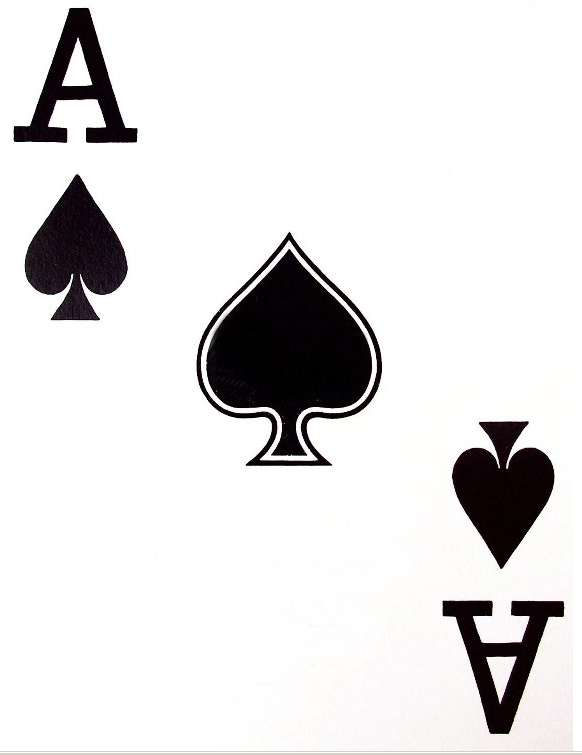
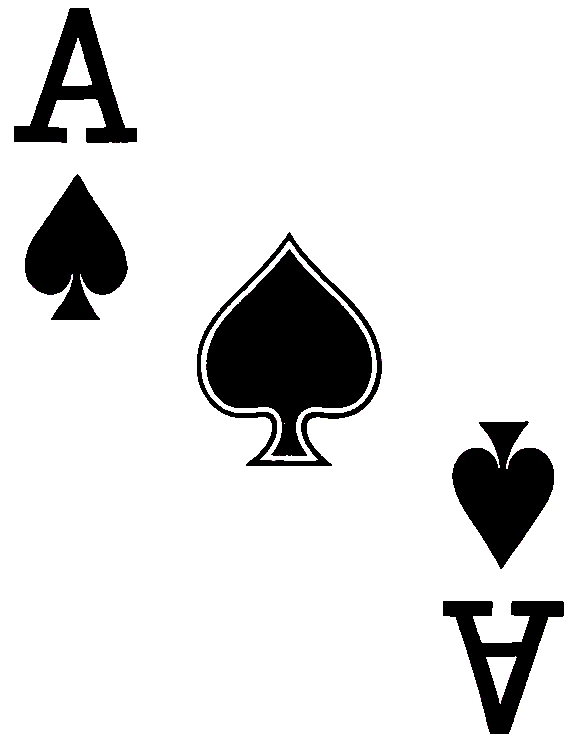
Second Pass added
has some bugs that need to be fixed

diff --git a/src/connected_components.py b/src/connected_components.py
@@ -1,65 +1,50 @@
 import random
 import Image
+from linked import Linked
 
 class ConnectedComponents:
 
-    linked = []
-    image = []
-
     
+
     def __init__(self, original_image_name):
 
-        print 'aqui'
         # parameters
-        self.original_image = Image.open(original_image_name)
-        filename, extension = original_image_name.split(".", 1)
-        self.saved_image_name = filename + '_altered.' + extension
+        self.original_image = Image.open(original_image_name)           # original image
+        filename, extension = original_image_name.split(".", 1)         # filename and extension
+        self.saved_image_name = filename + '_altered.' + extension      # saved filename
 
         # image measures
-        self.image_columns = self.original_image.size[0]
-        self.image_lines = self.original_image.size[1]
+        self.image_columns = self.original_image.size[0]                # columns
+        self.image_lines = self.original_image.size[1]                  # lines
 
         # initialize labels matrix
         self.labels = [[0 for col in range(self.image_columns)] for row in range(self.image_lines)]
 
+        # initialize label equivalences
+        self.equivalences = Linked()
     pass
 
     def identify_components(self):
         print 'identify_components'
+
         # first pass
         self.first_pass()
-        
+
+##        self.print_labels()
+
+        #print self.labels
+
         # second pass
         self.second_pass()
+
+##        self.print_labels()
+      
+        #print self.labels
 
         # save image
         self.save_image()
 
-    pass
-
-    #print 'Image_Columns: %d Image_Lines: %d' % (image_columns, image_lines)
-
-    #----------------------------------
-    # save image
-    #----------------------------------
-    def save_image(self):
-        print 'save_image'
-
-        rnd = random.randint
-        # generate label colors
-        labelColors = [(rnd(0, 255), rnd(0, 255), rnd(0, 255)) for l in range(0,  self.nextLabel)]
-        labelColors[0] = (0,0,0)
-
-        # put pixels in image
-        for line in range(self.image_lines):
-            for column in range(self.image_columns):
-                    
-                self.original_image.putpixel((column, line), labelColors[self.labels[line][column]])
-            pass
-        pass
-
-        # save image
-        self.original_image.save(self.saved_image_name)
+##        print self.equivalences.find(7)
 
     pass
         
@@ -67,14 +52,17 @@ class ConnectedComponents:
     # runs first pass to detect connected components
     #----------------------------------
     def first_pass(self):
-
-        self.nextLabel = 1
         print 'first_pass'
+
+        # Labels index starting at 1
+        nextLabel = 1
+
         for line in range(self.image_lines):
             for column in range(self.image_columns):
                 pixel = (column, line)
                 r, g, b = self.original_image.getpixel(pixel)
-                
+
+                # check if pixel is background
                 background = self.is_background(r, g, b)
 
                 # if it's not background
@@ -86,14 +74,23 @@ class ConnectedComponents:
 
                     # if there are no neighbors
                     if len(neighbor_labels) == 0:
-                        # linked[nextLabel] = 
-                        self.labels[line][column] = self.nextLabel
-                        self.nextLabel = self.nextLabel + 1
+                        
+                        # create label set
+                        self.equivalences.make_set(nextLabel)
+                        self.labels[line][column] = nextLabel
+                        nextLabel = nextLabel + 1
                     else:
+                        
                         # neighbors were found
-                        #print neighbor_labels
-                        #print min(neighbor_labels)
-                        self.labels[line][column] = min(neighbor_labels)
+                        min_label = min(neighbor_labels)                # get the smaller neighbor
+                        self.labels[line][column] = min_label           # mark current record in matrix as min label
+                        self.equivalences.union(min_label, neighbor_labels)
+
+##                        if max(neighbor_labels) == 7:
+##                            print 'neighbors were found'
+##                            print neighbor_labels
+##                            print min_label
+##                            print self.labels[line][column]
                     pass
                 pass
             pass
@@ -105,7 +102,58 @@ class ConnectedComponents:
     #----------------------------------
     def second_pass(self):
         print 'second_pass'
+
+##        print self.labels
+##        print len(self.labels)
+        
+
+        for line in range(self.image_lines):
+            for column in range(self.image_columns):
+
+                # not background
+                if self.labels[line][column] != 0:
+
+                    self.labels[line][column] = self.equivalences.find(self.labels[line][column])
+
+##                    if self.labels[line][column] == 7:
+##                        print 'second_pass not background'
+##                        print neighbor_labels
+##                        print min_label
+##                        print self.labels[line][column]
+                pass
+            pass
         pass
+    pass
+
+    #----------------------------------
+    # TODO: save image
+    #----------------------------------
+    def save_image(self):
+        print 'save_image'
+
+        rnd = random.randint
+        
+        # generate label colors
+        labelColors = [(rnd(0, 255), rnd(0, 255), rnd(0, 255)) for l in range(0,  len(self.labels))]
+
+        # put pixels in image
+        
+        for line in range(self.image_lines):
+            for column in range(self.image_columns):
+##
+##                print 'C:%d L:%d' % (column, line)
+##                print self.labels[line][column] - 1
+##                print labelColors[self.labels[line][column] - 1]
+                
+                if self.labels[line][column] != 0:
+                    self.original_image.putpixel((column, line), labelColors[self.labels[line][column] - 1])
+                pass
+            pass
+        pass
+    
+        # save image
+        self.original_image.save(self.saved_image_name)
+
     pass
 
     #----------------------------------
@@ -120,7 +168,7 @@ class ConnectedComponents:
     def is_background(self, r, g, b):
 
         # checks if it's black
-        if (r + g + b < 100):
+        if (r + g + b < 80):
             background = False
             pass
         else:
@@ -134,20 +182,25 @@ class ConnectedComponents:
     #----------------------------------
     # checks if the pixel has neighbors
     #
-    # image     - the image itself
     # line      - line of the pixel
     # column    - column of the pixel
     #----------------------------------
     def has_neighbors(self, line, column):
+
+        above_line = line - 1
+        next_column = column + 1
+        previous_column = column - 1
+
+##        print 'al:%d nc:%d pc:%d' % (above_line, next_column, previous_column)
 
         # LIXO
         #print 'has_neighbors l:%d c:%d' % (line, column)
         neighbor_labels = []
 
         # same line
-        if column != 0:
-            # neighbor_W
-            neighbor_W = self.labels[line][column-1]
+        if previous_column >= 0:
+            
+            neighbor_W = self.labels[line][previous_column]             # neighbor_W
 
             if neighbor_W != 0:
                 neighbor_labels.append(neighbor_W)
@@ -155,22 +208,24 @@ class ConnectedComponents:
         pass
 
         # above line
-        if line != 0:
-            # neighbor_N
-            neighbor_N = self.labels[line-1][column]
+        if above_line >= 0:
+
+            neighbor_N = self.labels[above_line][column]                # neighbor_N
 
             if neighbor_N != 0:
                 neighbor_labels.append(neighbor_N)
-                
-            # neighbor_NE
-            neighbor_NE = self.labels[line-1][column+1]
 
-            if neighbor_NE != 0:
-                neighbor_labels.append(neighbor_NE)
-            
-            if column > 0:
-                # neighbor_NW
-                neighbor_NW = self.labels[line-1][column-1]
+            # next column
+            if (next_column >= 0) and (next_column < self.image_columns):
+                
+                neighbor_NE = self.labels[above_line][next_column]      # neighbor_NE
+                if neighbor_NE != 0:
+                    neighbor_labels.append(neighbor_NE)
+
+            # previous column
+            if previous_column >= 0:
+                
+                neighbor_NW = self.labels[above_line][previous_column]  # neighbor_NW
 
                 if neighbor_NW != 0:
                     neighbor_labels.append(neighbor_NW)
@@ -179,10 +234,14 @@ class ConnectedComponents:
         pass
 
         # return
-        if sum(neighbor_labels) > 0:
-            return neighbor_labels
-        else:
-            return []
+        return neighbor_labels
+    pass
+
+    def print_labels(self):
+
+        for row in range(len(self.labels)):
+            print self.labels[row]
+            pass
         pass
     pass
 pass

diff --git a/src/linked.py b/src/linked.py
@@ -1,0 +1,58 @@
+class Linked:
+
+    def __init__(self):
+        
+        self.equivalences = []
+        pass
+    pass
+
+    def find(self, label_to_find):
+        return min(self.equivalences[label_to_find - 1])
+        pass
+    pass
+
+##    function MakeSet(x)
+##    x.parent := x
+    def make_set(self, label_to_add):
+##        print 'make_set'
+
+        # create new set with element label_to_add
+        new_set = set()
+        new_set.add(label_to_add)
+
+        # add set to equivalences list
+        self.equivalences.append(new_set)
+
+        pass
+    pass
+
+##    function Union(x, y)
+##        xRoot := Find(x)
+##        yRoot := Find(y)
+##        xRoot.parent := yRoot
+##
+    def union(self, min_label, neighbors):
+        new_set = set()
+
+        # build new set with neighbor elements
+        for n in neighbors:
+            new_set.add(n)
+
+        for n in neighbors:
+            self.equivalences[n-1].update(new_set)
+        
+        # add elements to equivalences
+##        self.equivalences[min_label-1].update(new_set)
+##        self.equivalences[max(neighbors) - 1].update(new_set)
+
+##        if max(neighbors) == 7:
+##            print 'Linked.union'
+##            print neighbors
+##            print min_label
+##            print new_set
+##            print self.equivalences
+
+        pass
+    pass
+
+pass

diff --git a/src/loader.py b/src/loader.py
@@ -4,7 +4,7 @@ from connected_components import ConnectedComponents
 # LOADER
 def main():
     # global parameters
-    original_image_name = "ace.jpg"
+    original_image_name = "wiki.png"
 
     # identify image regions using connected components algorithm
     cc = ConnectedComponents(original_image_name)
